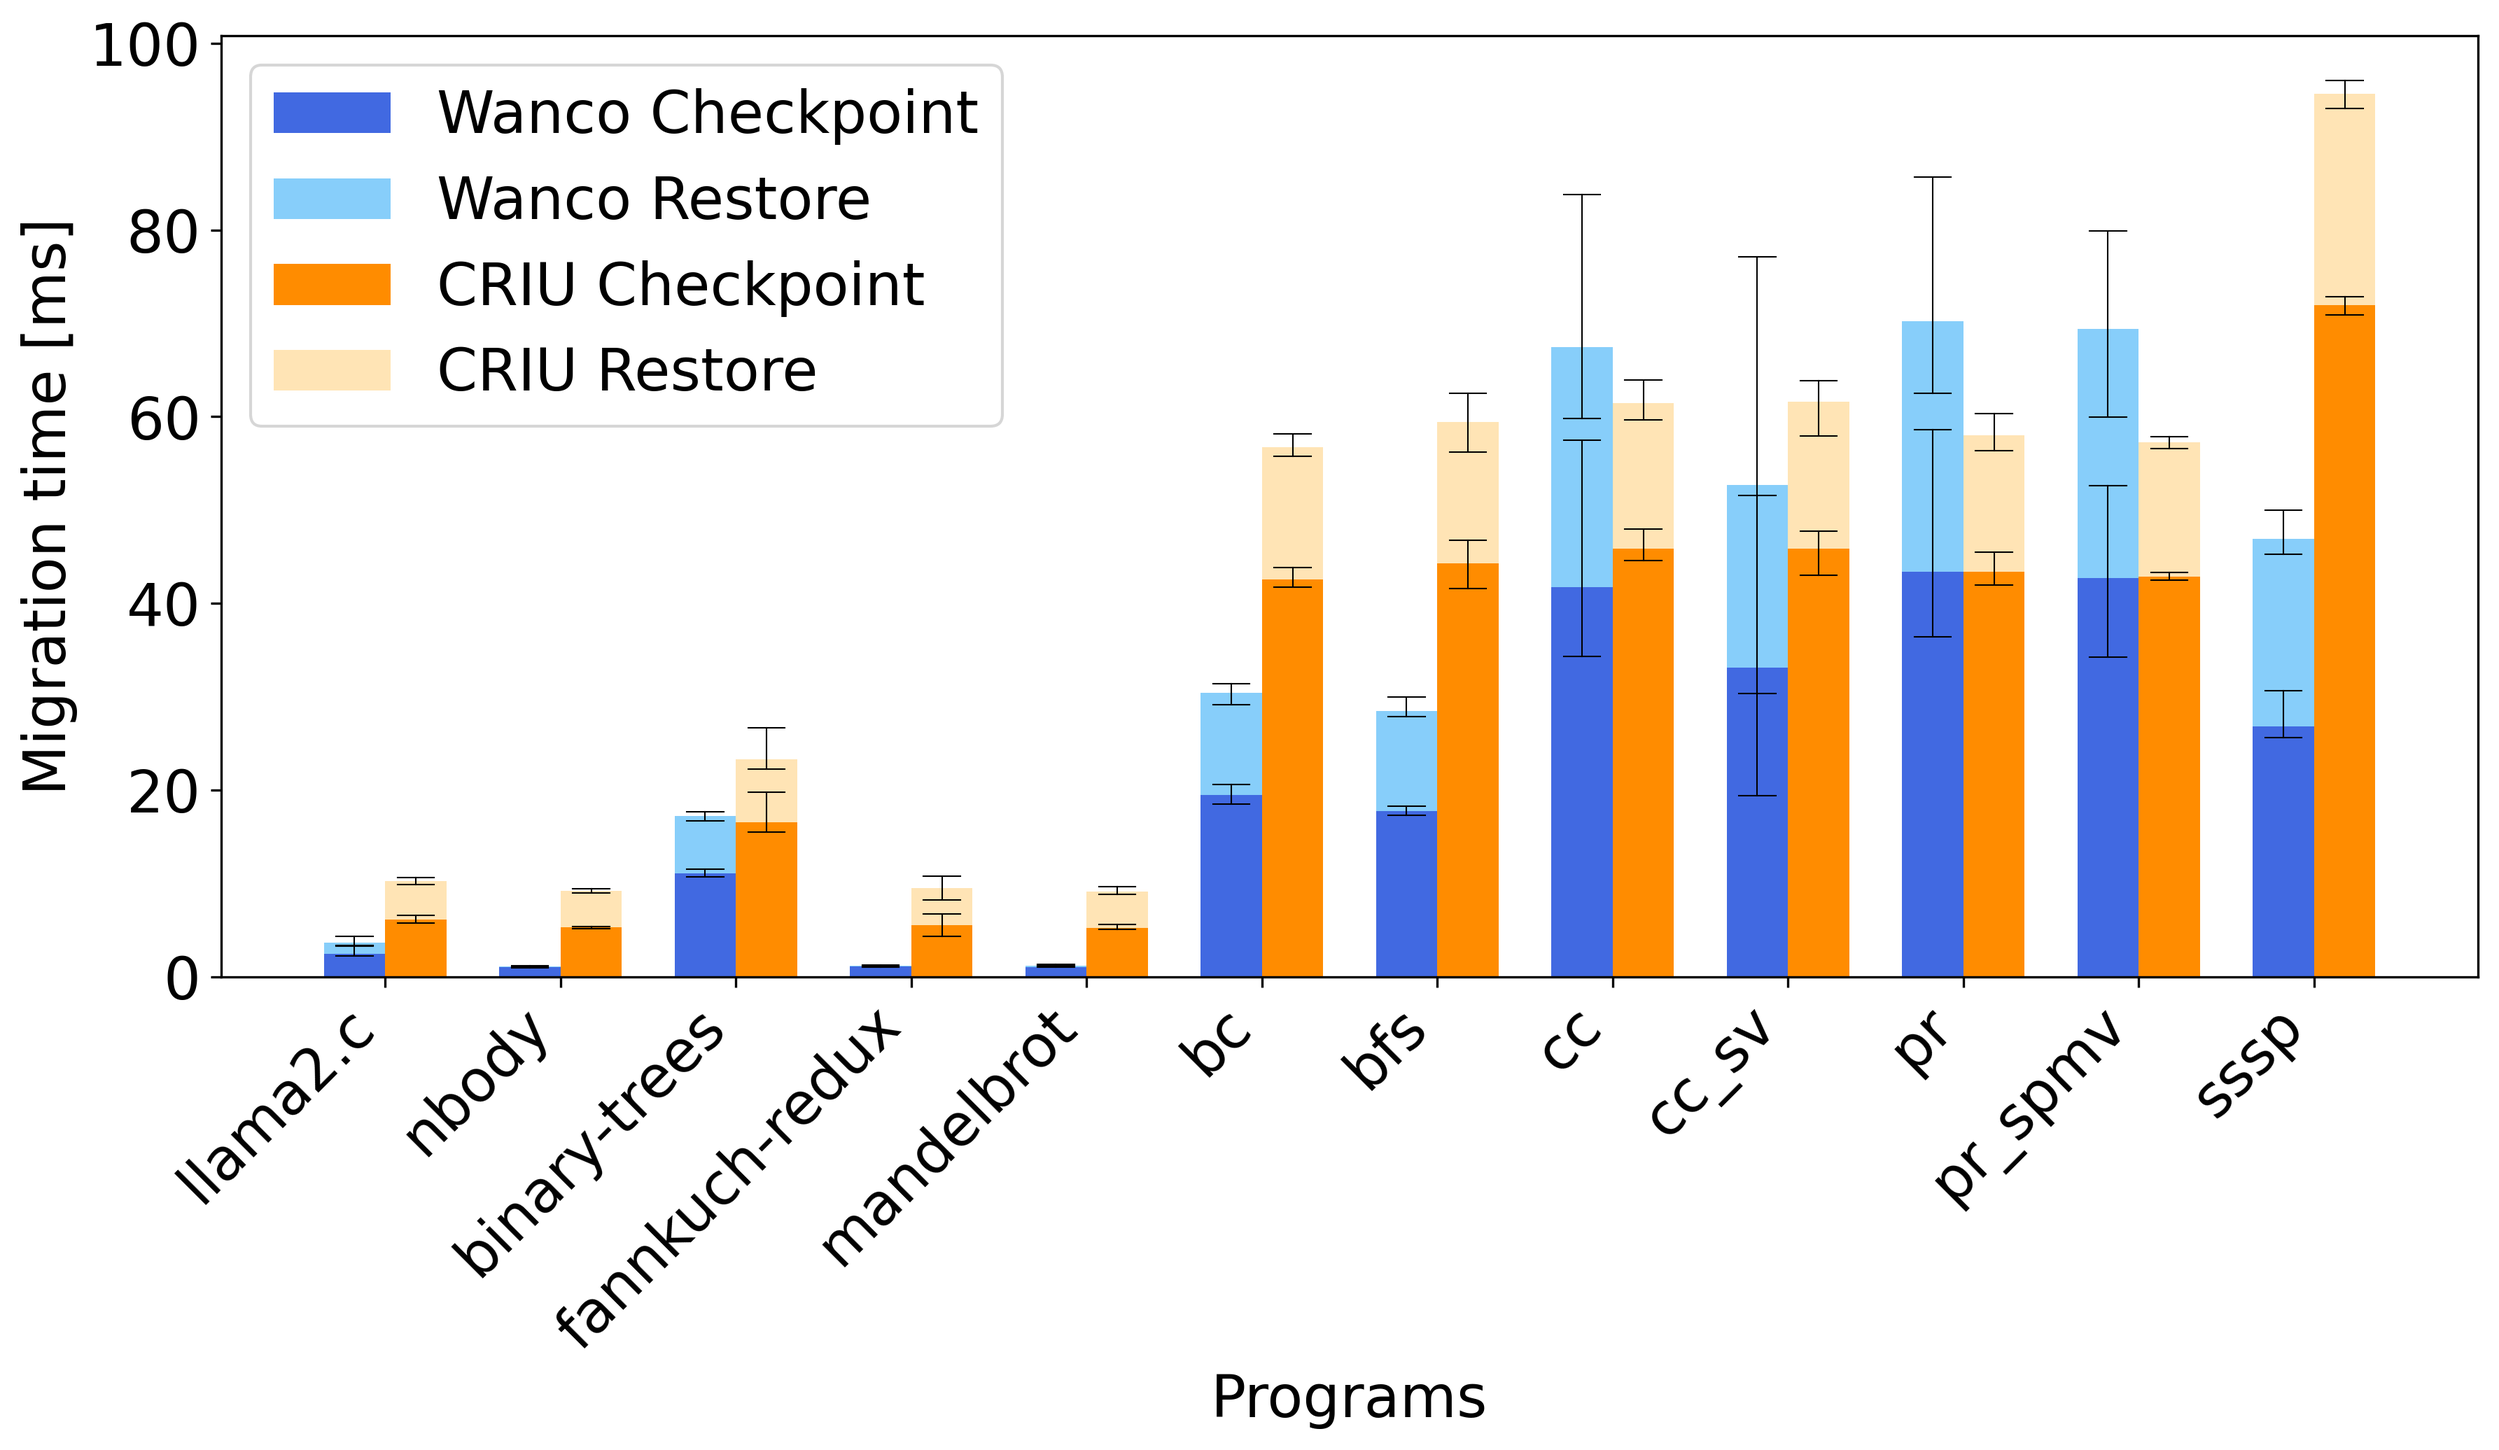
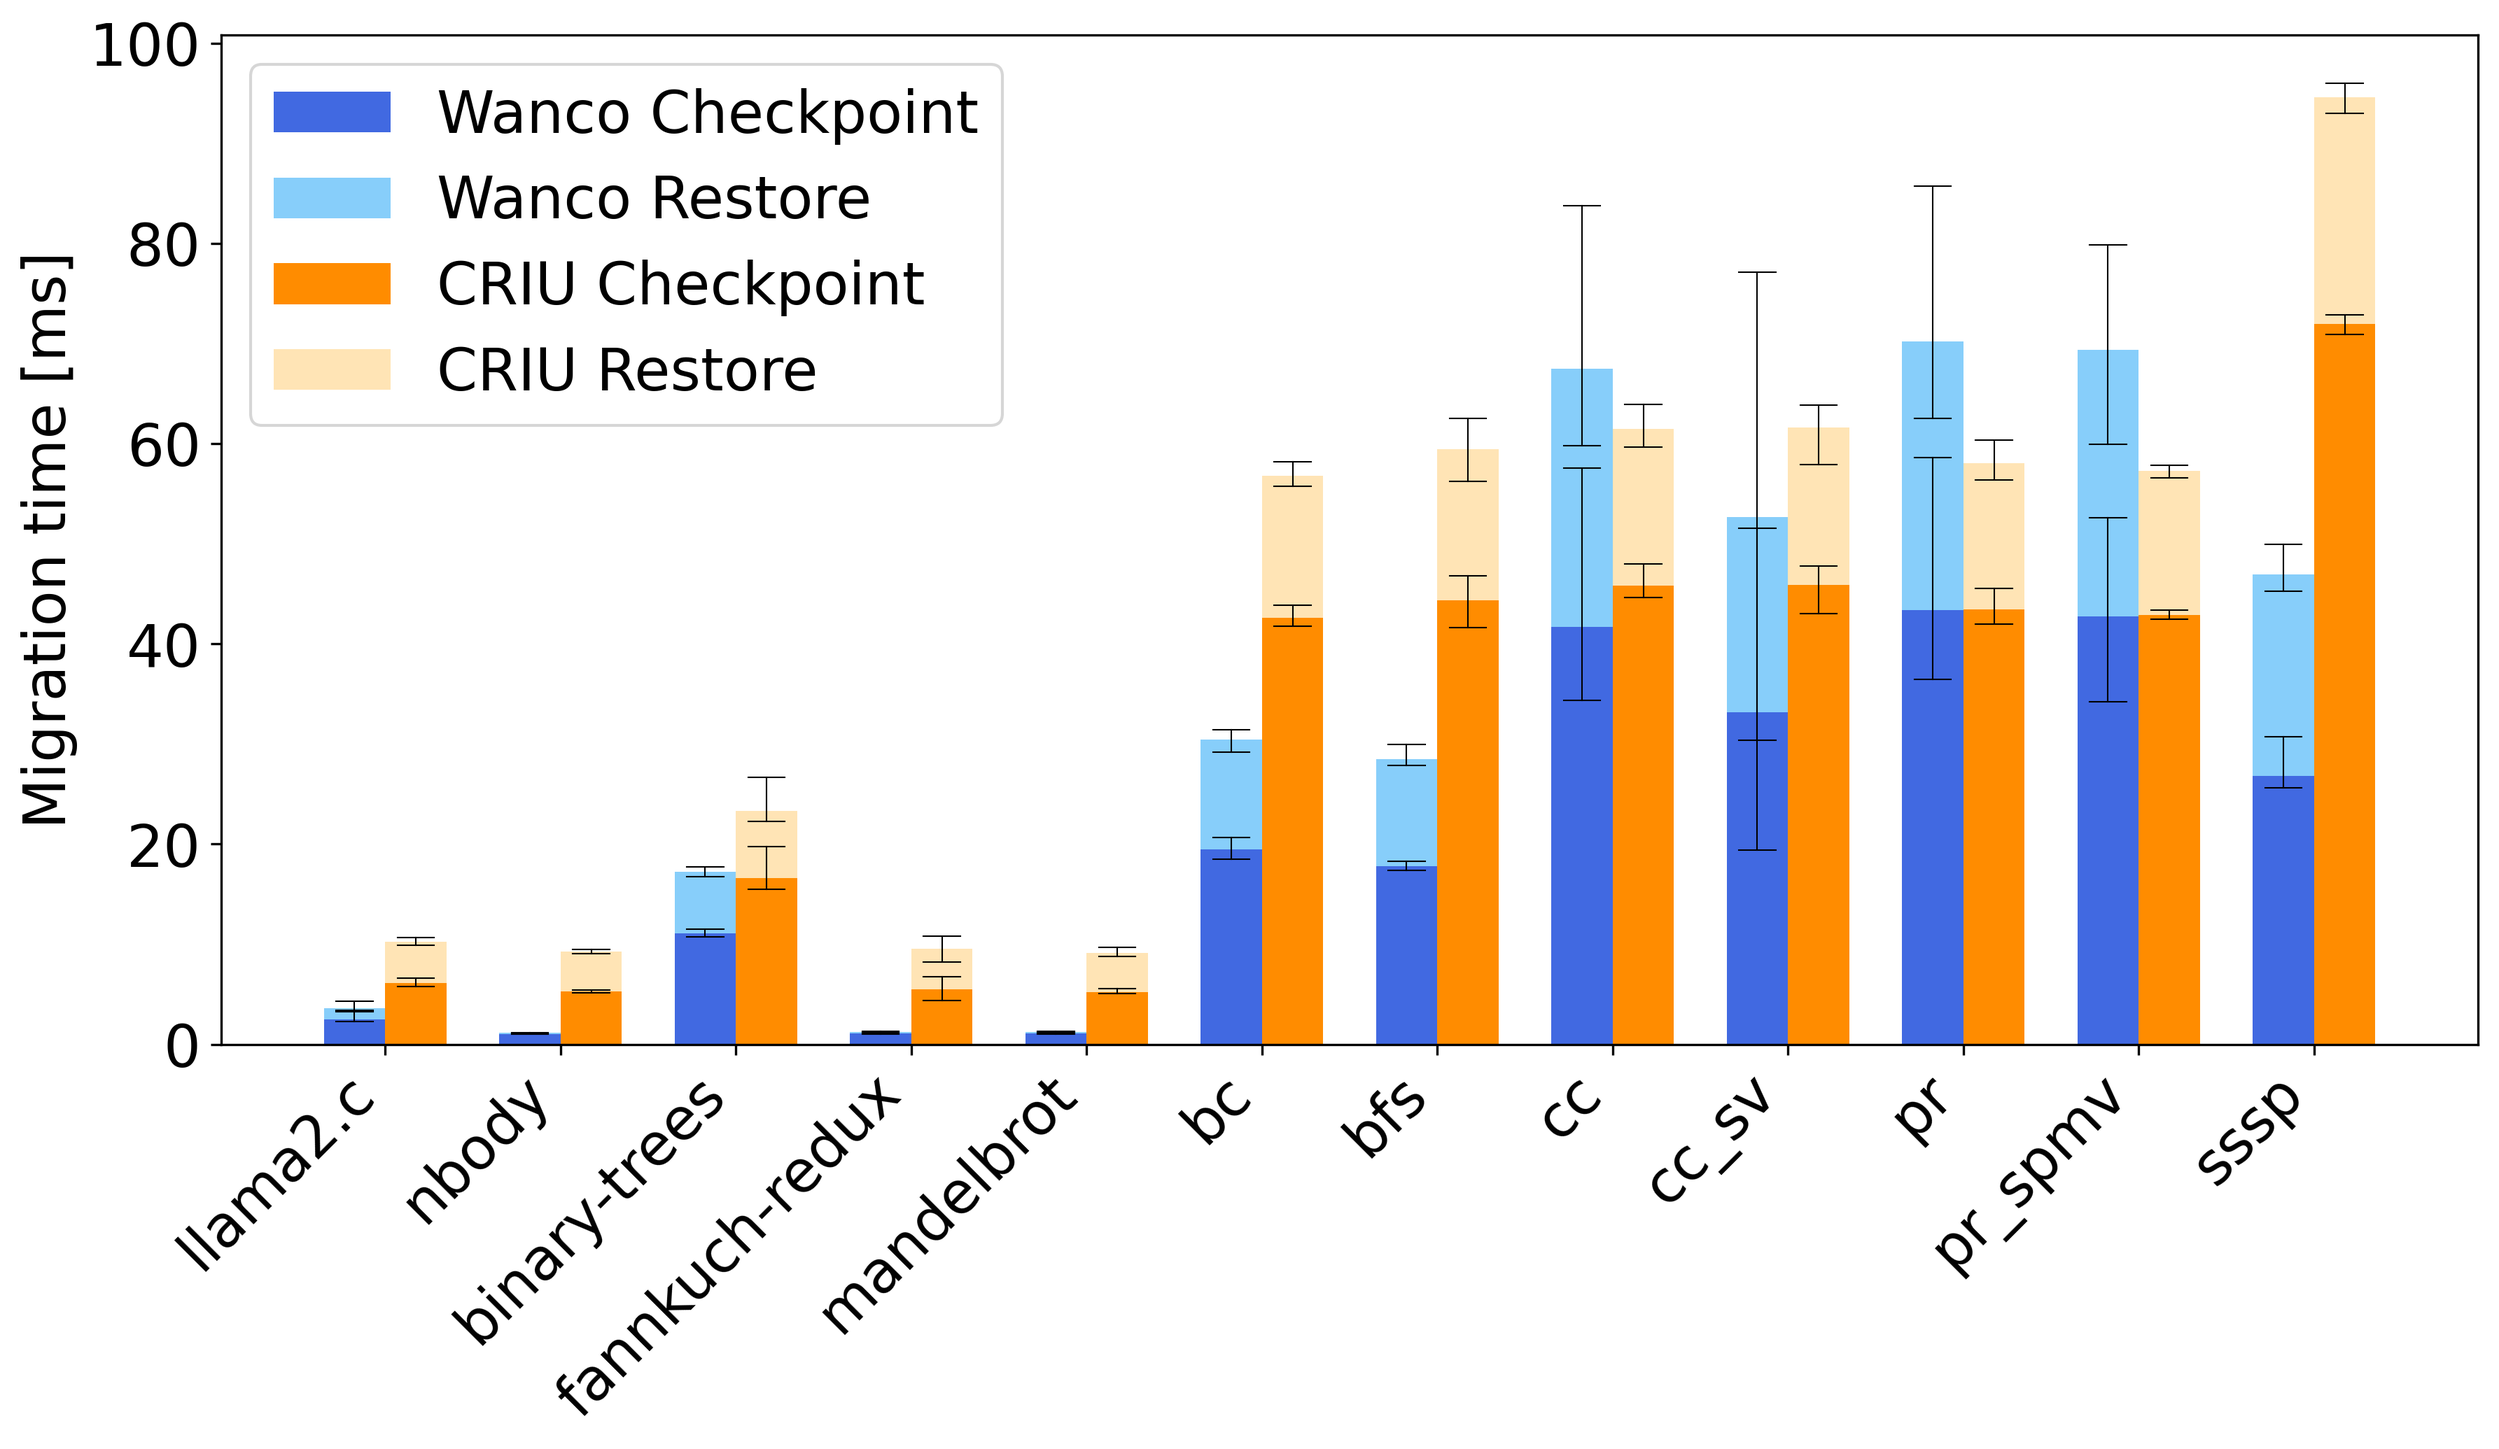
benchmark: update figures

diff --git a/benchmark/scripts/plot-exec-time.py b/benchmark/scripts/plot-exec-time.py
@@ -53,69 +53,96 @@ def prepare_plot_data(data):
     return plot_data
 
 
-# グループ化された箱ひげ図を作成
-def create_grouped_box_plot(plot_data, filename="overhead.jpg"):
-    # プログラムごとにサブプロットを作成
-    n_programs = len(plot_data)
-    fig, axes = plt.subplots(1, n_programs, figsize=(1.5 * n_programs, 6), sharey=True)
+# 全プログラムを1つのグラフにまとめた棒グラフを作成（間隔調整版）
+def create_combined_bar_plot(plot_data, filename="overhead.jpg"):
+    fig, ax = plt.subplots(figsize=(16, 8))  # 幅を少し広げる
 
-    # プログラムが1つの場合は配列にする
-    if n_programs == 1:
-        axes = [axes]
+    programs = list(plot_data.keys())
+    runtimes = ["Wanco w/ C/R", "WAMR", "WasmEdge"]
 
-    colors = ["#ff7f0e", "#2ca02c", "#d62728", "#1f77b4"]
+    # カラーパレット
+    colors = {"Wanco w/ C/R": "#1f77b4", "WAMR": "#ff7f0e", "WasmEdge": "#d62728"}
 
-    # 全ランタイムを収集
-    all_runtimes = set()
-    for program_data in plot_data.values():
-        all_runtimes.update(k for k in program_data.keys())
-    all_runtimes = sorted(list(all_runtimes))
+    # 棒の幅と位置の設定（間隔を広げる）
+    bar_width = 0.2  # 棒の幅を少し細く
+    group_spacing = 0.0  # グループ間の間隔を調整
+    x = np.arange(len(programs)) * (1 + group_spacing)  # プログラム間の間隔を広げる
 
-    print(f"利用可能なランタイム: {all_runtimes}")
+    # 各ランタイムごとに棒グラフを描画
+    for i, runtime in enumerate(runtimes):
+        means = []
+        stds = []
 
-    # フォントサイズ設定
-    label_fontsize = 14
-    tick_fontsize = 11
-    title_fontsize = 14
+        for program in programs:
+            if runtime in plot_data[program]:
+                data = plot_data[program][runtime]
+                means.append(np.mean(data))
+                stds.append(np.std(data))
+            else:
+                means.append(0)
+                stds.append(0)
 
-    # 各プログラムについてサブプロットを作成
-    for idx, (program, runtime_data) in enumerate(plot_data.items()):
-        ax = axes[idx]
+        # 各ランタイムの棒の位置を調整（ランタイム間に間隔を作る）
+        runtime_spacing = 0.01  # ランタイム間の間隔
+        total_width = len(runtimes) * bar_width + (len(runtimes) - 1) * runtime_spacing
+        start_offset = -total_width / 2 + bar_width / 2
+        runtime_offset = start_offset + i * (bar_width + runtime_spacing)
 
-        runtimes = ["Wanco w/ C/R", "WAMR", "WasmEdge"]
-        data_to_plot = [runtime_data[runtime] for runtime in runtimes]
-
-        # 箱ひげ図を描画
-        bp = ax.boxplot(
-            data_to_plot,
-            labels=runtimes,
-            patch_artist=True,
-            showfliers=True,
-            meanline=True,
-            widths=0.6,  # デフォルトは0.5、これを小さく
+        bars = ax.bar(
+            x + runtime_offset,
+            means,
+            bar_width,
+            yerr=stds,
+            capsize=3,
+            label=runtime,
+            color=colors[runtime],
+            alpha=0.8,
         )
 
-        # 箱ひげ図の塗りつぶしを無効化（no fill）
-        for box in bp["boxes"]:
-            box.set_facecolor("none")
-            box.set_alpha(1.0)
+        # 棒の上に値を表示
+        # for j, (bar, mean) in enumerate(zip(bars, means)):
+        #    if mean > 0:  # データがある場合のみ
+        #        height = bar.get_height()
+        #        ax.text(
+        #            bar.get_x() + bar.get_width() / 2.0,
+        #            height + stds[j] + 0.02,
+        #            f"{mean:.2f}",
+        #            ha="center",
+        #            va="bottom",
+        #            fontsize=9,
+        #            fontweight="bold",
+        #        )
 
-        # サブプロットの設定
-        ax.set_title(f"{program}", fontsize=title_fontsize)
-        ax.grid(True, alpha=0.3)
+    # 基準線（線幅を細くする）
+    ax.axhline(y=1.0, color="gray", linestyle="--", alpha=0.7, linewidth=0.3)
 
-        # y軸ラベルは最初のサブプロットのみ
-        if idx == 0:
-            ax.set_ylabel("Ratio of Execution Time to Wanco wo/ C/R", fontsize=label_fontsize)
+    # グラフの設定
+    # ax.set_xlabel("Programs", fontsize=14)
+    ax.set_ylabel("Ratio of Execution Time to Wanco wo/ C/R", fontsize=14)
+    ax.set_xticks(x)  # 中央の位置にラベルを配置
+    ax.set_xticklabels(programs, rotation=45, ha="right", fontsize=14)
+    ax.legend(loc="upper left", fontsize=14)
+    ax.grid(True, alpha=0.3, axis="y")
 
-        # x軸のラベルを45度回転
-        ax.tick_params(axis="x", labelsize=tick_fontsize, rotation=45)
-        ax.tick_params(axis="y", labelsize=tick_fontsize)
-        for tick in ax.get_xticklabels():
-            tick.set_horizontalalignment("right")
+    # y軸の範囲を調整
+    all_means = []
+    all_stds = []
+    for program in programs:
+        for runtime in runtimes:
+            if runtime in plot_data[program]:
+                data = plot_data[program][runtime]
+                all_means.append(np.mean(data))
+                all_stds.append(np.std(data))
 
-    plt.tight_layout(pad=0.0, w_pad=0.2, h_pad=0.2)  # サブプロット間の余白を狭く
-    plt.savefig(filename, dpi=300, bbox_inches="tight")
+    if all_means:
+        y_max = max(all_means) + max(all_stds) + 0.2
+        ax.set_ylim(0, y_max)
+
+    # x軸の範囲を調整して余白を確保
+    ax.set_xlim(-0.5, x[-1] + 0.5)
+
+    plt.tight_layout()
+    plt.savefig(filename, dpi=300)
     plt.show()
 
 
@@ -134,10 +161,12 @@ def main():
         for program in plot_data.keys():
             print(f"  - {program}")
             for runtime, ratios in plot_data[program].items():
-                print(f"    {runtime}: 平均 {np.mean(ratios):.3f}")
+                print(
+                    f"    {runtime}: 平均 {np.mean(ratios):.3f} ± {np.std(ratios):.3f}"
+                )
 
-        print("グループ化された箱ひげ図を作成中...")
-        create_grouped_box_plot(plot_data)
+        print("棒グラフを作成中...")
+        create_combined_bar_plot(plot_data)
 
         print("完了！")
 

diff --git a/benchmark/scripts/plot-code-size.py b/benchmark/scripts/plot-code-size.py
@@ -113,31 +113,18 @@ def main():
     wasmedge_bars_mib = [size / (1024 * 1024) for size in wasmedge_bars]
 
     # 各棒の位置を計算（間隔を追加）
-    pos_wamrc = index - (bar_width * 2 + group_gap * 2)
-    pos_wasmedge = index - (bar_width + group_gap)
-    pos_wanco = index
-    pos_wanco_cr = index + (bar_width + group_gap)
-    pos_wanco_asyncify = index + (bar_width * 2 + group_gap * 2)
-
-    # プログラムごとに、wamrc, wasmedge, wanco, wanco_crの順に棒を並べる
-    bars_wamrc = plt.bar(
-        pos_wamrc, wamrc_bars_mib, bar_width, label="WAMR", color="lightseagreen"
-    )
-
-    bars_wasmedge = plt.bar(
-        pos_wasmedge,
-        wasmedge_bars_mib,
-        bar_width,
-        label="WasmEdge",
-        color="#1f77b4",  # 青系統
-    )
+    pos_wanco = index - (bar_width * 2 + group_gap * 2)
+    pos_wanco_cr = index - (bar_width + group_gap)
+    pos_wanco_asyncify = index
+    pos_wamrc = index + (bar_width + group_gap)
+    pos_wasmedge = index + (bar_width * 2 + group_gap * 2)
 
     bars_wanco = plt.bar(
         pos_wanco,
         wanco_bars_mib,
         bar_width,
         label="Wanco",
-        color="#ff7f0e",  # オレンジ系統
+        color="#1f77b4",  # 青
     )
 
     bars_wanco_cr = plt.bar(
@@ -145,7 +132,7 @@ def main():
         wanco_cr_bars_mib,
         bar_width,
         label="Wanco w/ C/R",
-        color="hotpink",
+        color="#9467bd",  # 紫（青に近い寒色）
     )
 
     bars_wanco_asyncify = plt.bar(
@@ -153,7 +140,23 @@ def main():
         wanco_asyncify_bars_mib,
         bar_width,
         label="Wanco w/ asyncify",
-        color="purple",
+        color="#17becf",  # シアン（青系の最後）
+    )
+
+    bars_wamrc = plt.bar(
+        pos_wamrc,
+        wamrc_bars_mib,
+        bar_width,
+        label="WAMR",
+        color="#ff7f0e",  # オレンジ
+    )
+
+    bars_wasmedge = plt.bar(
+        pos_wasmedge,
+        wasmedge_bars_mib,
+        bar_width,
+        label="WasmEdge",
+        color="#d62728",  # 赤
     )
 
     # 比率分析（提供されたコード例に類似した分析）
@@ -195,7 +198,6 @@ def main():
     FONT_SIZE = 20
 
     # グラフの装飾
-    plt.xlabel("Programs", fontsize=FONT_SIZE)
     plt.ylabel("Code size [MiB]", fontsize=FONT_SIZE)
     plt.xticks(index, programs_names, rotation=45, ha="right", fontsize=FONT_SIZE)
     plt.yticks(fontsize=FONT_SIZE)

diff --git a/benchmark/scripts/plot-migration-time.py b/benchmark/scripts/plot-migration-time.py
@@ -348,7 +348,6 @@ def plot_migration_time(
                 )
 
     # X軸のラベルとtickを設定
-    ax.set_xlabel("Programs", fontsize=20)
     ax.set_xticks(index)
     ax.set_xticklabels(programs, rotation=45, ha="right", fontsize=20)
 
